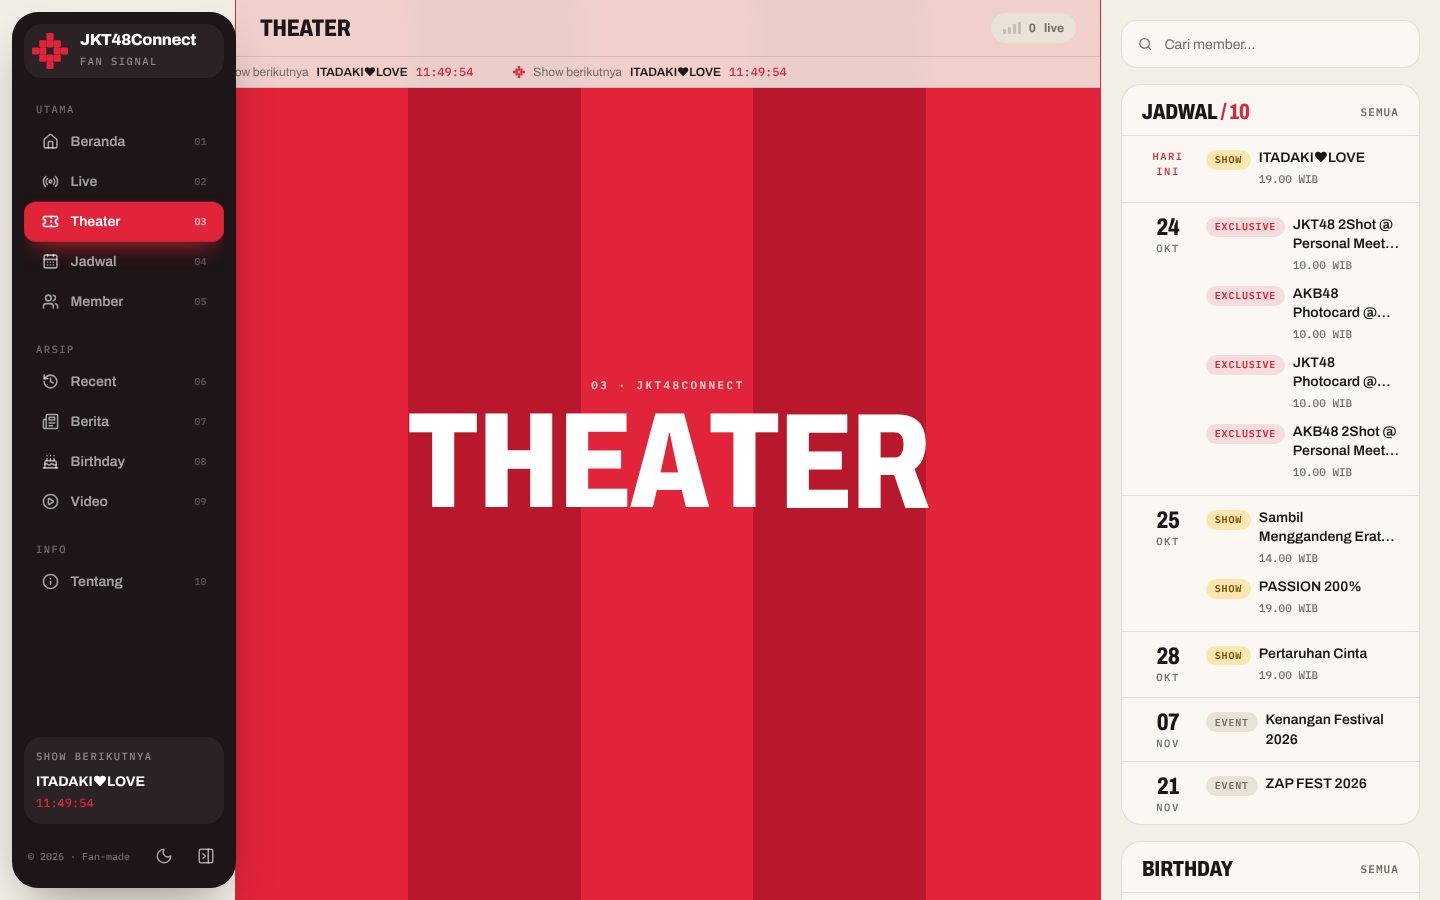
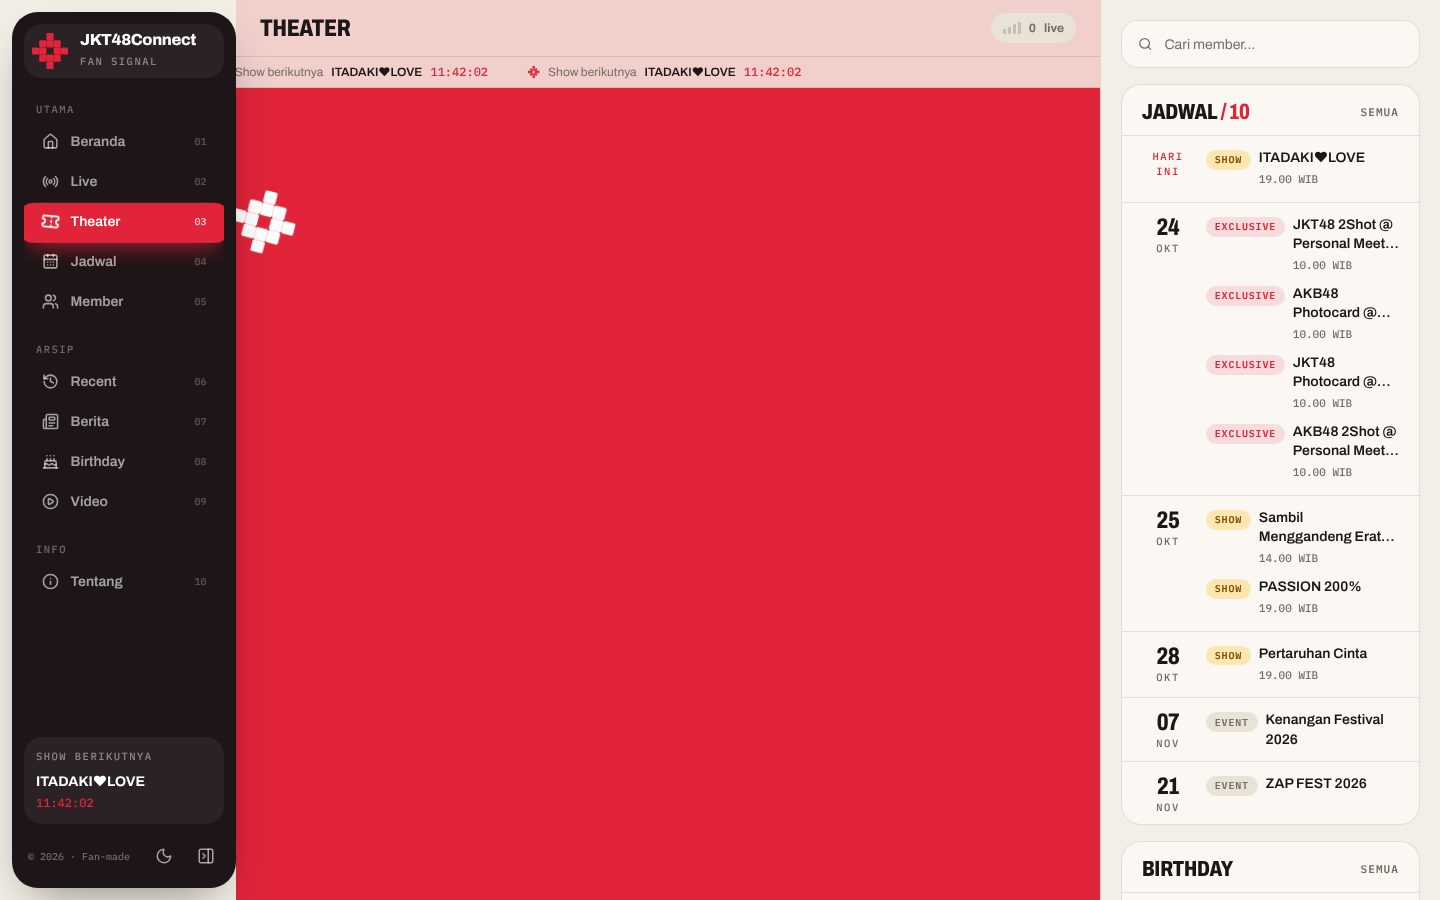
Ganti transisi halaman: riak merah dari titik klik, halaman baru mekar melingkar
Rana kolom diganti. Riak merah menyebar dari titik klik/tap terakhir dengan logo
piksel berputar di tengahnya, lalu konten baru terbuka dalam lingkaran dari titik
yang sama. Titik di luar kolom utama (sidebar, dock) ditarik ke tepi terdekat;
tanpa klik (keyboard, back) mulai dari tengah. Konten tersembunyi lewat clip-path
sebelum paint dan semua properti dibersihkan setelah selesai atau saat navigasi
beruntun.

Claude-Session: https://claude.ai/code/session_01Jmt5K39FbxVEJrhGiuPQW9

Changed region(s): [[0.1562, 0.0622, 0.6562, 1.0], [0.0312, 0.2178, 0.2188, 0.28]]

diff --git a/src/components/root-layout.tsx b/src/components/root-layout.tsx
@@ -1,18 +1,23 @@
 import { Outlet, useRouterState } from "@tanstack/react-router";
 import { useEffect, useLayoutEffect, useRef } from "react";
 import { IntroProvider } from "@/components/intro";
+import { PixelCross } from "@/components/logo";
 import { Aside, Dock, Footer, Sidebar, Topbar } from "@/components/shell";
 import { gsap, ScrollTrigger } from "@/lib/gsap";
-import { NAV, navFor } from "@/lib/nav";
-
-const SHUTTERS = 5;
 
 export function RootLayout() {
   const path = useRouterState({ select: (s) => s.location.pathname });
   const wipe = useRef<HTMLDivElement>(null);
   const content = useRef<HTMLDivElement>(null);
   const first = useRef(true);
-  const dest = navFor(path);
+  const tap = useRef({ x: 0, y: 0, t: 0 });
+
+  // Ingat titik klik/tap terakhir: transisi halaman mekar dari situ.
+  useEffect(() => {
+    const onDown = (e: PointerEvent) => (tap.current = { x: e.clientX, y: e.clientY, t: Date.now() });
+    window.addEventListener("pointerdown", onDown, true);
+    return () => window.removeEventListener("pointerdown", onDown, true);
+  }, []);
 
   // Data API sering datang setelah halaman tampil, sehingga tinggi halaman berubah. Hitung ulang
   // posisi ScrollTrigger setiap kali tinggi konten berubah agar reveal & footer tetap terpicu.
@@ -31,9 +36,9 @@ export function RootLayout() {
     };
   }, []);
 
-  // Transisi antar halaman: rana kolom merah menutup dari bawah, nama halaman tujuan muncul besar,
-  // lalu rana terbuka ke atas dan konten baru naik. Konten baru disembunyikan sebelum paint supaya
-  // pergantian halaman tidak terlihat di balik rana.
+  // Transisi antar halaman: riak merah menyebar dari titik yang diklik (logo piksel berputar di
+  // tengahnya), lalu halaman baru mekar dalam lingkaran dari titik yang sama. Tanpa klik (keyboard,
+  // tombol back), titik awalnya tengah kolom utama. Konten baru tersembunyi oleh clip sebelum paint.
   useLayoutEffect(() => {
     if (first.current) {
       first.current = false;
@@ -44,23 +49,35 @@ export function RootLayout() {
     const w = wipe.current;
     const c = content.current;
     if (!w || !c) return;
-    const cols = w.querySelectorAll("[data-col]");
-    const chars = w.querySelectorAll("[data-ch]");
-    const label = w.querySelector("[data-wl]");
+    const disc = w.querySelector<HTMLElement>("[data-disc]");
+    const mark = w.querySelector<HTMLElement>("[data-mark]");
+
+    gsap.set(w, { display: "block" });
+    const area = w.getBoundingClientRect();
+    const box = c.getBoundingClientRect();
+    const recent = Date.now() - tap.current.t < 1500;
+    // Klik di sidebar/dock berada di luar area: tarik ke tepi terdekat supaya riak langsung terlihat.
+    const clamp = (v: number, lo: number, hi: number) => Math.min(Math.max(v, lo), hi);
+    const x = recent ? clamp(tap.current.x, area.left + 28, area.right - 28) : area.left + area.width / 2;
+    const bottom = window.innerHeight - (window.innerWidth < 1024 ? 110 : 28); // di HP jangan tertutup dock
+    const y = recent ? clamp(tap.current.y, Math.max(area.top, 0) + 28, bottom) : area.top + area.height / 2;
+    // Jari-jari yang cukup untuk menutup seluruh area terlihat dari titik awal.
+    const r = Math.hypot(Math.max(x - area.left, area.right - x), Math.max(y - area.top, window.innerHeight - y)) + 40;
+    const at = (el: DOMRect) => `${x - el.left}px ${y - el.top}px`;
+
     const tl = gsap.timeline();
-    tl.set(c, { opacity: 0 })
-      .set(w, { display: "block" })
-      .fromTo(cols, { scaleY: 0, transformOrigin: "50% 100%" }, { scaleY: 1, duration: 0.34, ease: "power4.inOut", stagger: 0.04 })
-      .fromTo(label, { opacity: 0, y: 10 }, { opacity: 1, y: 0, duration: 0.25 }, 0.2)
-      .fromTo(chars, { yPercent: 115 }, { yPercent: 0, duration: 0.4, ease: "expo.out", stagger: 0.022 }, 0.2)
-      .to(chars, { yPercent: -115, duration: 0.24, ease: "power3.in", stagger: 0.012 }, 0.62)
-      .to(label, { opacity: 0, duration: 0.15 }, 0.62)
-      .to(cols, { scaleY: 0, transformOrigin: "50% 0%", duration: 0.42, ease: "power4.inOut", stagger: 0.04 }, 0.72)
-      .fromTo(c, { opacity: 0, y: 36 }, { opacity: 1, y: 0, duration: 0.5, ease: "power3.out", clearProps: "transform,opacity" }, 0.84)
+    tl.set(c, { clipPath: `circle(0px at ${at(box)})` })
+      .set(mark, { left: x - area.left, top: y - area.top, scale: 0, rotate: -120, opacity: 1 })
+      .fromTo(disc, { clipPath: `circle(0px at ${at(area)})` }, { clipPath: `circle(${r}px at ${at(area)})`, duration: 0.45, ease: "power2.inOut" })
+      .to(mark, { scale: 1, rotate: 0, duration: 0.4, ease: "back.out(2.5)" }, 0.08)
+      .to(mark, { scale: 0, rotate: 90, opacity: 0, duration: 0.25, ease: "power2.in" }, 0.5)
+      .to(c, { clipPath: `circle(${r}px at ${at(box)})`, duration: 0.7, ease: "expo.inOut" }, 0.42)
+      .fromTo(c, { y: 24 }, { y: 0, duration: 0.7, ease: "power3.out" }, 0.42)
+      .set(c, { clearProps: "clipPath,transform" })
       .set(w, { display: "none" });
     return () => {
       tl.kill();
-      gsap.set(c, { clearProps: "transform,opacity" });
+      gsap.set(c, { clearProps: "clipPath,transform" });
       gsap.set(w, { display: "none" });
     };
   }, [path]);
@@ -75,29 +92,14 @@ export function RootLayout() {
         <div className="relative min-w-0 flex-1">
           <Topbar />
           <main id="konten" className="relative z-[1] pb-12">
-            <div ref={content}>
+            <div ref={content} className="relative z-10 bg-bg">
               <Outlet />
             </div>
-            <div ref={wipe} aria-hidden className="pointer-events-none fixed inset-0 z-20 hidden lg:left-[var(--side-pad)] xl:right-[340px]">
-              <div className="absolute inset-0 flex">
-                {Array.from({ length: SHUTTERS }).map((_, i) => (
-                  <div key={i} data-col className={i % 2 ? "-mx-px flex-1 bg-brand-strong" : "-mx-px flex-1 bg-brand"} />
-                ))}
-              </div>
-              <div className="absolute inset-0 grid place-items-center px-6 text-center text-white">
-                <div>
-                  <p data-wl className="font-mono text-[11px] font-semibold uppercase tracking-[0.22em] text-white/80">
-                    {String(NAV.indexOf(dest) + 1).padStart(2, "0")} · JKT48Connect
-                  </p>
-                  <p className="condensed mt-2 flex justify-center overflow-hidden text-[clamp(3.5rem,11vw,8.5rem)] uppercase leading-[0.9]">
-                    {dest.label.split("").map((ch, i) => (
-                      <span key={`${dest.to}-${i}`} data-ch className="inline-block">
-                        {ch}
-                      </span>
-                    ))}
-                  </p>
-                </div>
-              </div>
+            <div ref={wipe} aria-hidden className="pointer-events-none fixed inset-0 z-[5] hidden lg:left-[var(--side-pad)] xl:right-[340px]">
+              <div data-disc className="absolute inset-0 bg-brand" />
+              <span data-mark className="absolute -ml-7 -mt-7 block h-14 w-14">
+                <PixelCross className="h-14 w-14" cellClass="fill-white" />
+              </span>
             </div>
           </main>
           <Footer />

diff --git a/README.md b/README.md
@@ -17,7 +17,7 @@ Remake UI publik JKT48Connect dengan gaya **Fan Signal**, identitas visual yang 
 | Navigasi | Desktop: panel tinta melayang dengan menu berkelompok (Utama/Arsip/Info) dan nomor 01–10, bisa diciutkan jadi rail ikon (tombol di bawah panel atau tombol `[`, pilihan diingat) dengan tooltip label. Pil merah meluncur (elastic) ke menu aktif, sorotan tipis mengikuti kursor, dan kartu "On air" menampilkan member yang live atau hitung mundur show berikutnya. HP: dock tinta, menu aktif melebar jadi pil merah berlabel, tombol kisi membuka menu merah layar penuh yang mekar melingkar. Ticker sinyal di topbar. |
 | Hero | Carousel banner desain **jkt48connect** (kartu notifikasi live + banner jadwal show): wipe, zoom pelan, progress bar per slide, bisa digeser. Show yang desainnya masih *pending* tampil sebagai panel merah. |
 | Isi | Statistik yang menghitung naik, kartu dengan tilt 3D, nomor merah "01" ala lineup, judul "JUDUL / jumlah" yang muncul huruf demi huruf, poster jadwal potret jkt48connect, dan daftar jadwal yang masuk bertahap. |
-| Transisi halaman | Rana lima kolom merah menutup kolom utama dari bawah, nama halaman tujuan (dengan nomor menunya) tersusun huruf demi huruf di tengah, lalu rana terbuka ke atas dan konten baru naik. Konten baru disembunyikan sebelum paint supaya pergantian tidak terlihat. |
+| Transisi halaman | Riak merah menyebar dari titik yang diklik (logo piksel berputar di tengahnya), lalu halaman baru mekar dalam lingkaran dari titik yang sama. Tanpa klik (keyboard, tombol back), riak mulai dari tengah kolom utama. Konten baru disembunyikan dengan clip sebelum paint supaya pergantian tidak terlihat. |
 | Footer | Blok tinta di dasar kolom utama: tagline, kolom tautan, tombol sosial, wordmark raksasa JKT48CONNECT yang tersusun huruf demi huruf saat discroll, jam WIB, dan tombol kembali ke atas. |
 | Latar | Polos (krem / gelap), tanpa pola. |
 
